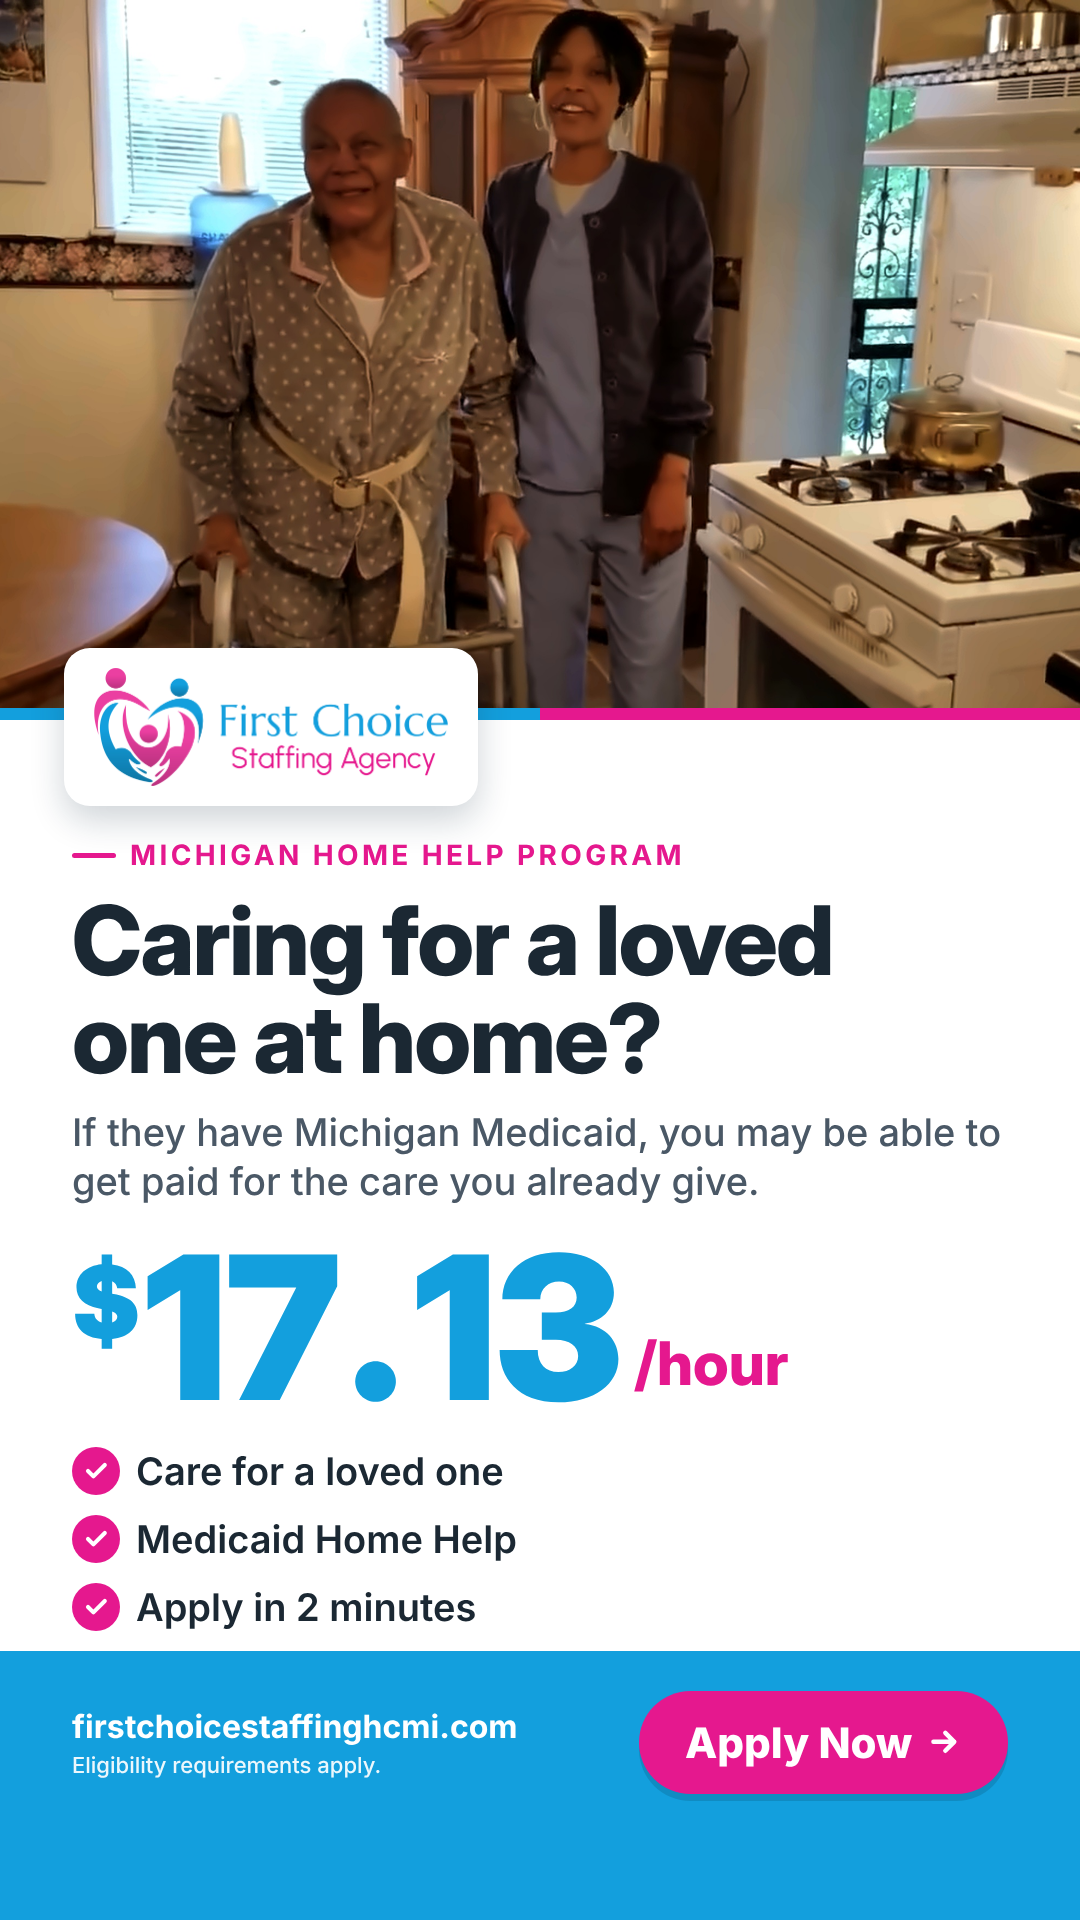
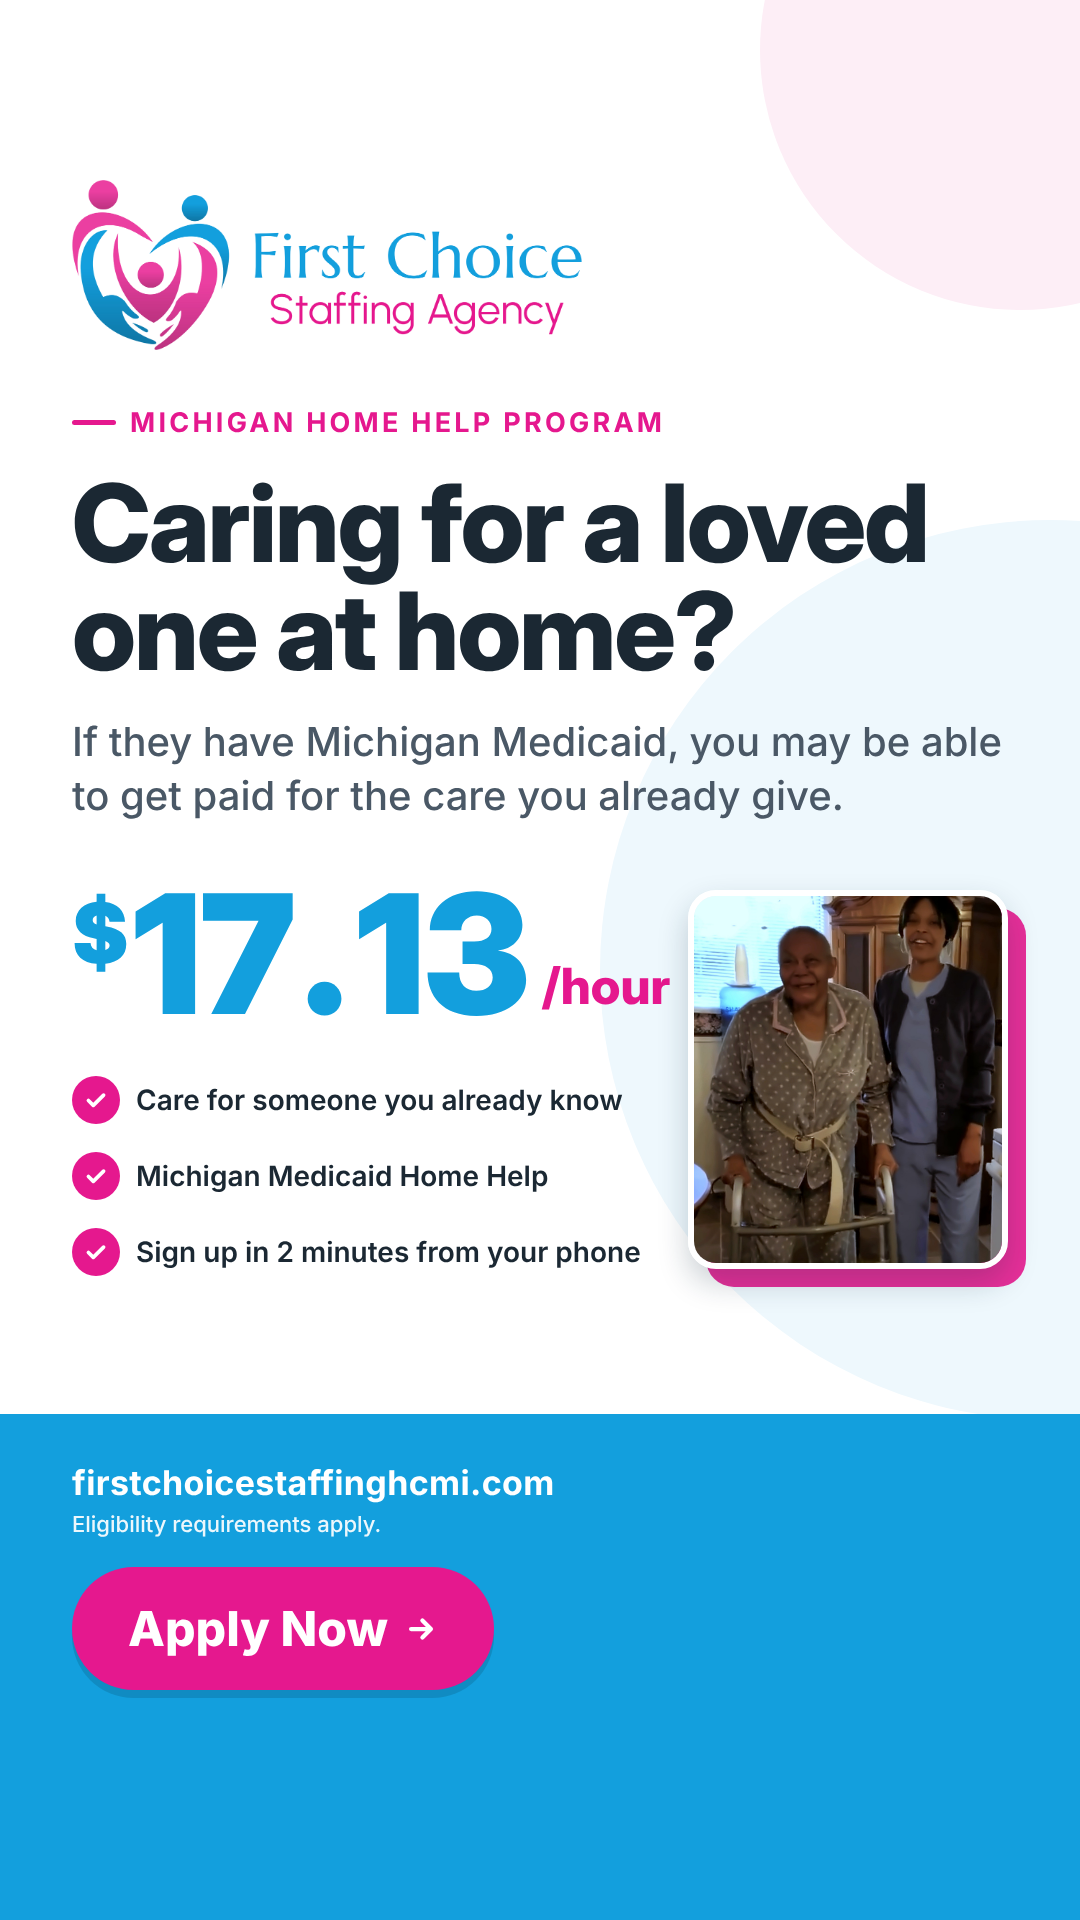
Restore original ad wording and layout with caregiver photo on the side
Claude-Session: https://claude.ai/code/session_01EcXwQxA6uLpaQryB1LdpUD

diff --git a/FirstChoice_Caregiver_Ad/build/ad_v3.html b/FirstChoice_Caregiver_Ad/build/ad_v3.html
@@ -1,0 +1,108 @@
+<!doctype html>
+<html>
+<head>
+<meta charset="utf-8">
+<style>
+  :root{--blue:#139FDD;--pink:#E5188E;--ink:#1B2833;--muted:#4A5866;--tint:#EEF8FD}
+  *{box-sizing:border-box;margin:0;padding:0}
+  body{background:#ddd;font-family:'Inter',sans-serif;color:var(--ink)}
+  .ad{position:relative;overflow:hidden;background:#fff;display:flex;flex-direction:column}
+  .feed{width:1080px;height:1350px}
+  .story{width:1080px;height:1920px}
+
+  .wash{position:absolute;border-radius:50%}
+  .wash.b{background:var(--tint)}
+  .wash.p{background:#FDEEF6}
+
+  .top{position:relative;padding:64px 72px 0}
+  .logo{height:150px;display:block}
+  .body{position:relative;padding:0 72px;flex:1;display:flex;flex-direction:column}
+  .eyebrow{display:inline-flex;align-items:center;gap:14px;font-weight:700;font-size:27px;letter-spacing:.12em;color:var(--pink);text-transform:uppercase;margin-top:46px}
+  .eyebrow:before{content:"";width:44px;height:5px;border-radius:3px;background:var(--pink)}
+  h1{font-family:'Inter Display','Inter',sans-serif;font-weight:800;font-size:96px;line-height:1.0;letter-spacing:-.02em;margin-top:26px;color:var(--ink)}
+  .sub{font-size:36px;line-height:1.35;color:var(--muted);margin-top:26px;max-width:880px;font-weight:500}
+
+  .lower{display:grid;grid-template-columns:1fr auto;gap:28px;align-items:center;margin-top:34px}
+  .left{min-width:0}
+  .pay{display:flex;align-items:flex-end;gap:14px}
+  .amt{font-family:'Inter Display','Inter',sans-serif;font-weight:900;font-size:168px;line-height:.86;letter-spacing:-.01em;color:var(--blue);white-space:nowrap}
+  .amt sup{font-size:.5em;vertical-align:.62em;margin-right:4px;letter-spacing:0}
+  .amt .dot{margin:0 .07em 0 .05em}
+  .per{font-family:'Inter Display','Inter',sans-serif;font-weight:800;font-size:48px;color:var(--pink);padding-bottom:10px;white-space:nowrap}
+  ul{list-style:none;margin-top:38px;display:grid;gap:18px}
+  li{display:flex;align-items:center;gap:16px;font-size:29px;font-weight:600;color:var(--ink);white-space:nowrap}
+  li i{flex:none;width:44px;height:44px;border-radius:50%;background:var(--pink);display:grid;place-items:center}
+  li i svg{width:26px;height:26px}
+
+  .photo{position:relative;width:310px}
+  .photo:before{content:"";position:absolute;inset:18px -18px -18px 18px;border-radius:28px;background:var(--pink);opacity:.9}
+  .photo img{position:relative;display:block;width:100%;aspect-ratio:1080/1280;object-fit:cover;border-radius:28px;border:6px solid #fff;box-shadow:0 14px 30px rgba(16,40,60,.22)}
+
+  .band{position:relative;background:var(--blue);color:#fff;padding:40px 72px 34px;display:flex;align-items:center;justify-content:space-between;gap:30px}
+  .band .site{font-size:34px;font-weight:700;letter-spacing:.01em}
+  .band .note{font-size:22px;font-weight:500;opacity:.92;margin-top:8px}
+  .btn{flex:none;background:var(--pink);color:#fff;font-weight:800;font-size:40px;padding:26px 46px;border-radius:999px;display:flex;align-items:center;gap:16px;box-shadow:0 8px 0 rgba(0,0,0,.12)}
+  .btn svg{width:34px;height:34px}
+
+  /* story */
+  .story .top{padding-top:180px}
+  .story .logo{height:170px}
+  .story .eyebrow{margin-top:56px}
+  .story h1{font-size:108px;margin-top:30px}
+  .story .sub{font-size:40px;margin-top:30px;max-width:950px}
+  .story .lower{margin-top:50px;gap:30px}
+  .story .amt{font-size:166px}
+  .story .per{font-size:50px}
+  .story ul{margin-top:44px;gap:24px}
+  .story li{font-size:28px}
+  .story li i{width:48px;height:48px}
+  .story .photo{width:320px}
+  .story .band{flex-direction:column;align-items:flex-start;padding:48px 72px 230px;gap:30px}
+  .story .btn{font-size:48px;padding:32px 56px}
+  .story .lower{margin-top:60px}
+  .story ul{margin-top:50px;gap:28px}
+</style>
+</head>
+<body>
+<template id="content">
+  <div class="wash p" style="width:520px;height:520px;right:-200px;top:-210px"></div>
+  <div class="wash b" style="width:900px;height:900px;right:-420px;top:520px"></div>
+  <div class="top"><img class="logo" src="logo.png" alt="First Choice Staffing Agency"></div>
+  <div class="body">
+    <div class="eyebrow">Michigan Home Help Program</div>
+    <h1>Caring for a loved one at home?</h1>
+    <p class="sub">If they have Michigan Medicaid, you may be able to get paid for the care you already give.</p>
+    <div class="lower">
+      <div class="left">
+        <div class="pay">
+          <div class="amt"><sup>$</sup>17<span class="dot">.</span>13</div>
+          <div class="per">/hour</div>
+        </div>
+        <ul>
+          <li><i><svg viewBox="0 0 24 24" fill="none" stroke="#fff" stroke-width="3.4" stroke-linecap="round" stroke-linejoin="round"><path d="M5 12.5l4.5 4.5L19 7.5"/></svg></i>Care for someone you already know</li>
+          <li><i><svg viewBox="0 0 24 24" fill="none" stroke="#fff" stroke-width="3.4" stroke-linecap="round" stroke-linejoin="round"><path d="M5 12.5l4.5 4.5L19 7.5"/></svg></i>Michigan Medicaid Home Help</li>
+          <li><i><svg viewBox="0 0 24 24" fill="none" stroke="#fff" stroke-width="3.4" stroke-linecap="round" stroke-linejoin="round"><path d="M5 12.5l4.5 4.5L19 7.5"/></svg></i>Sign up in 2 minutes from your phone</li>
+        </ul>
+      </div>
+      <div class="photo"><img src="photo_side.jpg" alt="Caregiver with client at home"></div>
+    </div>
+  </div>
+  <div class="band">
+    <div>
+      <div class="site">firstchoicestaffinghcmi.com</div>
+      <div class="note">Eligibility requirements apply.</div>
+    </div>
+    <div class="btn">Apply Now <svg viewBox="0 0 24 24" fill="none" stroke="#fff" stroke-width="3" stroke-linecap="round" stroke-linejoin="round"><path d="M5 12h14M13 6l6 6-6 6"/></svg></div>
+  </div>
+</template>
+
+<div id="feed" class="ad feed"></div>
+<div style="height:40px"></div>
+<div id="story" class="ad story"></div>
+
+<script>
+  const t=document.getElementById('content');
+  for(const id of ['feed','story']) document.getElementById(id).appendChild(t.content.cloneNode(true));
+</script>
+</body>
+</html>
